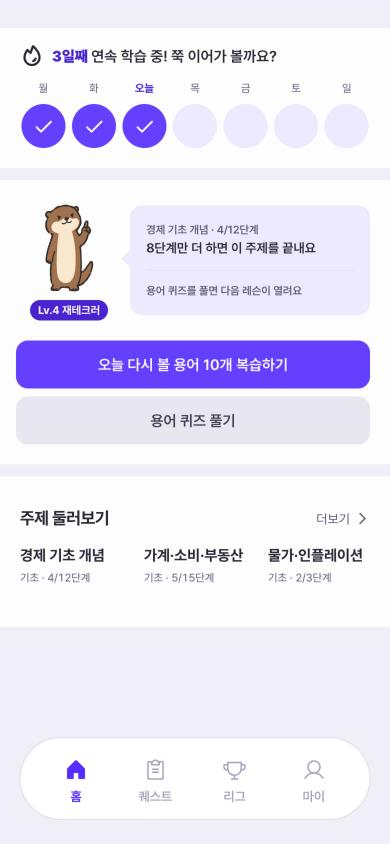
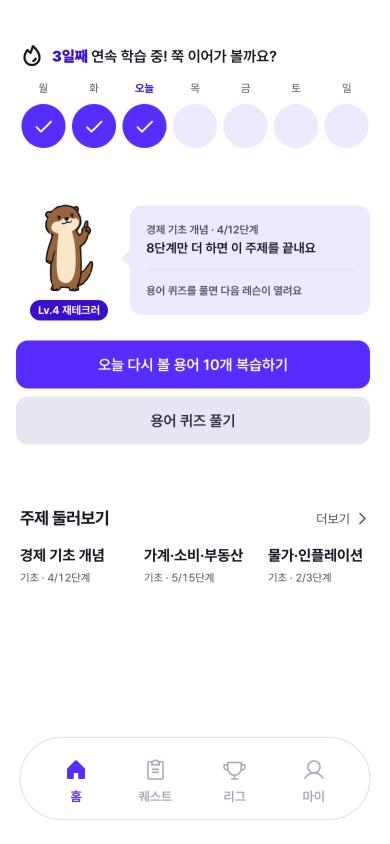
홈·코스 상세·학습 화면도 흰 바탕으로 통일(라벤더는 스플래시·축하 화면만), DESIGN.md·스크린샷 갱신

diff --git a/src/index.css b/src/index.css
@@ -214,7 +214,7 @@ button.text-xl, input.text-xl, select.text-xl, textarea.text-xl { font-size: var
 }
 .course-topic-summary {
   border: 0;
-  background: var(--color-canvas);
+  background: var(--color-card);
 }
 .course-node-card {
   position: relative;
@@ -357,29 +357,29 @@ svg:is(.text-brand-300, .text-brand-400, .text-brand-500, .text-brand-600, .text
   border: 0;
 }
 
-.app-soft-screen { background: var(--color-canvas); }
+.app-soft-screen { background: var(--color-card); }
 .lesson-intro-check { display: flex; width: 24px; height: 24px; flex-shrink: 0; border-radius: 50%; align-items: center; justify-content: center; background: var(--color-accent-soft); color: var(--color-accent-foreground); }
 .lesson-intro-step { display: flex; align-items: center; gap: var(--space-3); padding: var(--space-4); border-radius: var(--shape-inset); background: var(--color-card); box-shadow: var(--shadow-choice); }
 .lesson-intro-step-number { display: flex; width: 28px; height: 28px; flex-shrink: 0; border-radius: 50%; align-items: center; justify-content: center; background: var(--color-progress); color: var(--color-on-progress); font-size: var(--font-size-label); font-weight: var(--font-weight-bold); }
 .learning-completion-card { border-radius: var(--shape-card); background: var(--color-card); box-shadow: var(--shadow-card); }
 .learning-completion-mark { display: flex; width: 56px; height: 56px; border-radius: 50%; align-items: center; justify-content: center; background: var(--color-progress); color: var(--color-on-progress); }
 .app-soft-header {
-  background: var(--color-canvas);
+  background: var(--color-card);
   border-bottom: 1px solid var(--color-line);
 }
 .app-soft-sticky {
   /* 고정 필터에서 상단 그라데이션을 다시 시작하지 않는다. */
-  background: var(--color-canvas);
+  background: var(--color-card);
 }
 .app-soft-footer {
-  background: var(--color-canvas);
+  background: var(--color-card);
   border-top-color: var(--color-line);
 }
 
 .my-page-screen {
-  background: var(--color-canvas);
+  background: var(--color-card);
 }
-.my-page-hero { position: relative; flex-shrink: 0; padding-bottom: var(--space-4); background: var(--color-canvas); }
+.my-page-hero { position: relative; flex-shrink: 0; padding-bottom: var(--space-4); background: var(--color-card); }
 .my-page-hero::after {
   content: none;
 }
@@ -477,7 +477,7 @@ button.action-button svg { flex-shrink: 0; }
 }
 .study-action-footer {
   padding-bottom: max(var(--space-7), env(safe-area-inset-bottom));
-  background: var(--color-canvas);
+  background: var(--color-card);
   border-top: 1px solid var(--color-line);
 }
 /* 배경 없는 글자·행 버튼의 공통 눌림 표시(상태 정의). */
@@ -647,7 +647,7 @@ button.word-term-button:active {
   padding: var(--space-4);
   border: 1px solid var(--color-line);
   border-radius: var(--shape-card);
-  background: var(--color-canvas);
+  background: var(--color-card);
   color: var(--color-ink);
   white-space: normal;
   scroll-margin-block: var(--space-4);
@@ -699,7 +699,7 @@ button.lesson-feedback-disclosure { display: flex; width: 100%; min-height: var(
 .lesson-feedback-options li:is(.is-correct, .is-wrong) { background: var(--color-surface); color: var(--color-ink); }
 .lesson-feedback-option-marker { display: flex; width: 18px; flex-shrink: 0; align-items: center; justify-content: center; font-size: var(--font-size-caption); }
 .lesson-feedback-option-state { flex-shrink: 0; font-size: var(--font-size-caption); font-weight: var(--font-weight-semibold); }
-.lesson-result-footer { display: flex; flex-shrink: 0; flex-direction: column; gap: var(--space-2); padding: var(--space-3) var(--space-5) max(var(--space-7), env(safe-area-inset-bottom)); border-top: 1px solid var(--color-line); background: var(--color-canvas); }
+.lesson-result-footer { display: flex; flex-shrink: 0; flex-direction: column; gap: var(--space-2); padding: var(--space-3) var(--space-5) max(var(--space-7), env(safe-area-inset-bottom)); border-top: 1px solid var(--color-line); background: var(--color-card); }
 
 /* 완료 화면: 캐릭터·실제 결과·다음 행동을 각각 한 구역에 둔다. */
 .lesson-complete-content { flex: 1; min-height: 0; overflow-y: auto; padding: var(--space-5) var(--space-5) var(--space-6); scrollbar-width: none; }
@@ -908,7 +908,7 @@ button.nickname-clear { display: inline-flex; flex: 0 0 44px; width: 44px; heigh
 .review-complete-balance { display: flex; flex-shrink: 0; align-items: baseline; gap: var(--space-1); color: var(--color-ink-3); font-size: var(--font-size-label); line-height: var(--line-height-body); font-variant-numeric: tabular-nums; }
 .review-complete-balance strong { color: var(--color-ink); font-size: var(--font-size-title-3); font-weight: var(--font-weight-bold); letter-spacing: var(--letter-spacing-title); }
 .review-complete-extras:empty { display: none; }
-.review-complete-footer { display: flex; flex-shrink: 0; justify-content: center; padding: var(--space-3) var(--space-5) max(var(--space-7), env(safe-area-inset-bottom)); background: var(--color-canvas); }
+.review-complete-footer { display: flex; flex-shrink: 0; justify-content: center; padding: var(--space-3) var(--space-5) max(var(--space-7), env(safe-area-inset-bottom)); background: var(--color-card); }
 .review-complete-footer > button { max-width: 400px; }
 @media (max-width: 350px) {
   .review-complete-content { padding: var(--space-5) var(--space-4) var(--space-3); gap: var(--space-3); }
@@ -1012,7 +1012,7 @@ button.word-meaning-detail:focus-visible { outline: 2px solid var(--color-ink-3)
 .quiz-selection-guide { margin-top: calc(var(--space-1) * -1); color: var(--color-ink-3); font-size: var(--font-size-label); line-height: var(--line-height-relaxed); word-break: keep-all; }
 .quiz-prompt-main:focus { outline: none; }
 button.quiz-option:disabled { opacity: 1; cursor: default; }
-.quiz-confirm-footer { flex-shrink: 0; padding: var(--space-3) var(--space-5) max(var(--space-6), env(safe-area-inset-bottom)); border-top: 1px solid var(--color-line); background: var(--color-canvas); }
+.quiz-confirm-footer { flex-shrink: 0; padding: var(--space-3) var(--space-5) max(var(--space-6), env(safe-area-inset-bottom)); border-top: 1px solid var(--color-line); background: var(--color-card); }
 .quiz-answer-feedback { display: flex; flex-shrink: 0; flex-direction: column; gap: var(--space-3); padding: var(--space-5) var(--space-5) max(var(--space-5), env(safe-area-inset-bottom)); border-radius: var(--shape-card) var(--shape-card) 0 0; background: var(--color-card); box-shadow: 0 -4px 16px rgba(23, 29, 35, 0.06); }
 .quiz-answer-heading { display: flex; align-items: center; gap: var(--space-2); }
 .quiz-answer-heading > h2 { flex: 1; min-width: 0; color: var(--color-ink); font-size: var(--font-size-title-3); font-weight: var(--font-weight-bold); line-height: var(--line-height-body); word-break: keep-all; }
@@ -1131,7 +1131,7 @@ button.course-home-rail-card:active { background: var(--color-surface); }
 .course-node-current { border-color: var(--color-accent-line) !important; }
 
 /* 학습 완료: 보라 바탕 위 기뻐하는 수달과 흰 결과 카드 */
-.learning-completion-screen { background: var(--color-canvas); }
+.learning-completion-screen { background: var(--color-card); }
 .learning-completion-screen .learning-completion-card { margin-top: 72px; padding-top: 44px; }
 .learning-completion-character { position: absolute; top: -96px; left: 50%; width: 128px; height: auto; transform: translateX(-50%); }
 .course-home-section-heading { margin-top: var(--space-6); }
@@ -1176,7 +1176,7 @@ button.course-home-rail-card:active { background: transparent; opacity: 0.7; }
 .my-page-stats.app-card { border-bottom: 1px solid var(--color-line); border-radius: 0; }
 .learning-completion-card { background: transparent; box-shadow: none; }
 /* 스크롤 중 고정되는 코스 머리는 아래 단계 글자와 겹치지 않게 화면과 같은 바탕색을 둔다 */
-.course-topic-summary { padding-inline: 0 !important; border-radius: 0; background: var(--color-canvas) !important; border-bottom: 1px solid var(--color-line); }
+.course-topic-summary { padding-inline: 0 !important; border-radius: 0; background: var(--color-card) !important; border-bottom: 1px solid var(--color-line); }
 .lesson-intro-step { padding: var(--space-3) 0; border-radius: 0; background: transparent; box-shadow: none; border-bottom: 1px solid var(--color-line); }
 /* 선택 전 보기는 흰 면이라 회색 테두리로 경계를 보인다 */
 button.quiz-option.border-transparent { border-color: var(--color-line-strong) !important; }

diff --git a/src/App.tsx b/src/App.tsx
@@ -285,7 +285,7 @@ export default function App() {
           <AlertModal />
           {/* 상단 인셋은 더하지 않는다 — 토스 웹뷰는 네이티브 내비게이션 바 아래에서 시작해 상태바와 겹치지 않는다.
               하단 인셋은 NavBar가 직접 처리한다. */}
-          <div data-app-shell className="w-full max-w-md mx-auto bg-[var(--color-canvas)] h-[100dvh] overflow-hidden relative font-sans text-[var(--color-ink)] flex flex-col">
+          <div data-app-shell className="w-full max-w-md mx-auto bg-[var(--color-card)] h-[100dvh] overflow-hidden relative font-sans text-[var(--color-ink)] flex flex-col">
             <ErrorBoundary>
               <Layout />
             </ErrorBoundary>

diff --git a/src/pages/WordCardScreen.tsx b/src/pages/WordCardScreen.tsx
@@ -258,7 +258,7 @@ const RelatedWordPreview = ({ initialWord, lookup, onClose }: {
       }
     }}
     onClick={event => { if (event.target === event.currentTarget) onClose(); }}
-    className="m-auto max-h-[90dvh] w-full max-w-lg overflow-y-auto rounded-card border-0 bg-[var(--color-canvas)] p-0 text-[var(--color-ink)] backdrop:bg-black/40"
+    className="m-auto max-h-[90dvh] w-full max-w-lg overflow-y-auto rounded-card border-0 bg-[var(--color-card)] p-0 text-[var(--color-ink)] backdrop:bg-black/40"
   >
     <div>
       <header className="sticky top-0 z-10 flex flex-col gap-2 bg-[var(--color-card)] px-5 py-4">

diff --git a/DESIGN.md b/DESIGN.md
@@ -45,7 +45,7 @@
 | 옅은 강조 면   | `--color-accent-soft`       | `#F1EEFF` | 선택 면, 말풍선, 아이콘 틀, 배지 원        |
 | 강조 선        | `--color-accent-line`       | `#CBC0FF` | 선택 테두리                                |
 | 진행           | `--color-progress`          | `#6B4EFF` | 진행 막대, 완료 원                         |
-| 페이지 바탕    | `--color-canvas`            | `#F3F2F8` | 흰 섹션 사이                               |
+| 페이지 바탕    | `--color-canvas`            | `#F3F2F8` | 화면 바탕은 흰색(`--color-card`). 스플래시·축하 화면에만 쓴다 |
 | 섹션·카드      | `--color-card`              | `#FFFFFF` | 흰 섹션, 카드, 시트                        |
 | 비활성 면      | `--color-surface`           | `#F3F2F8` | 진행 막대 바탕, 받은 미션 버튼             |
 | 제목           | `--color-ink`               | `#1B1A2B` | 제목, 주요 수치(순검정 대신 짙은 보라검정) |
